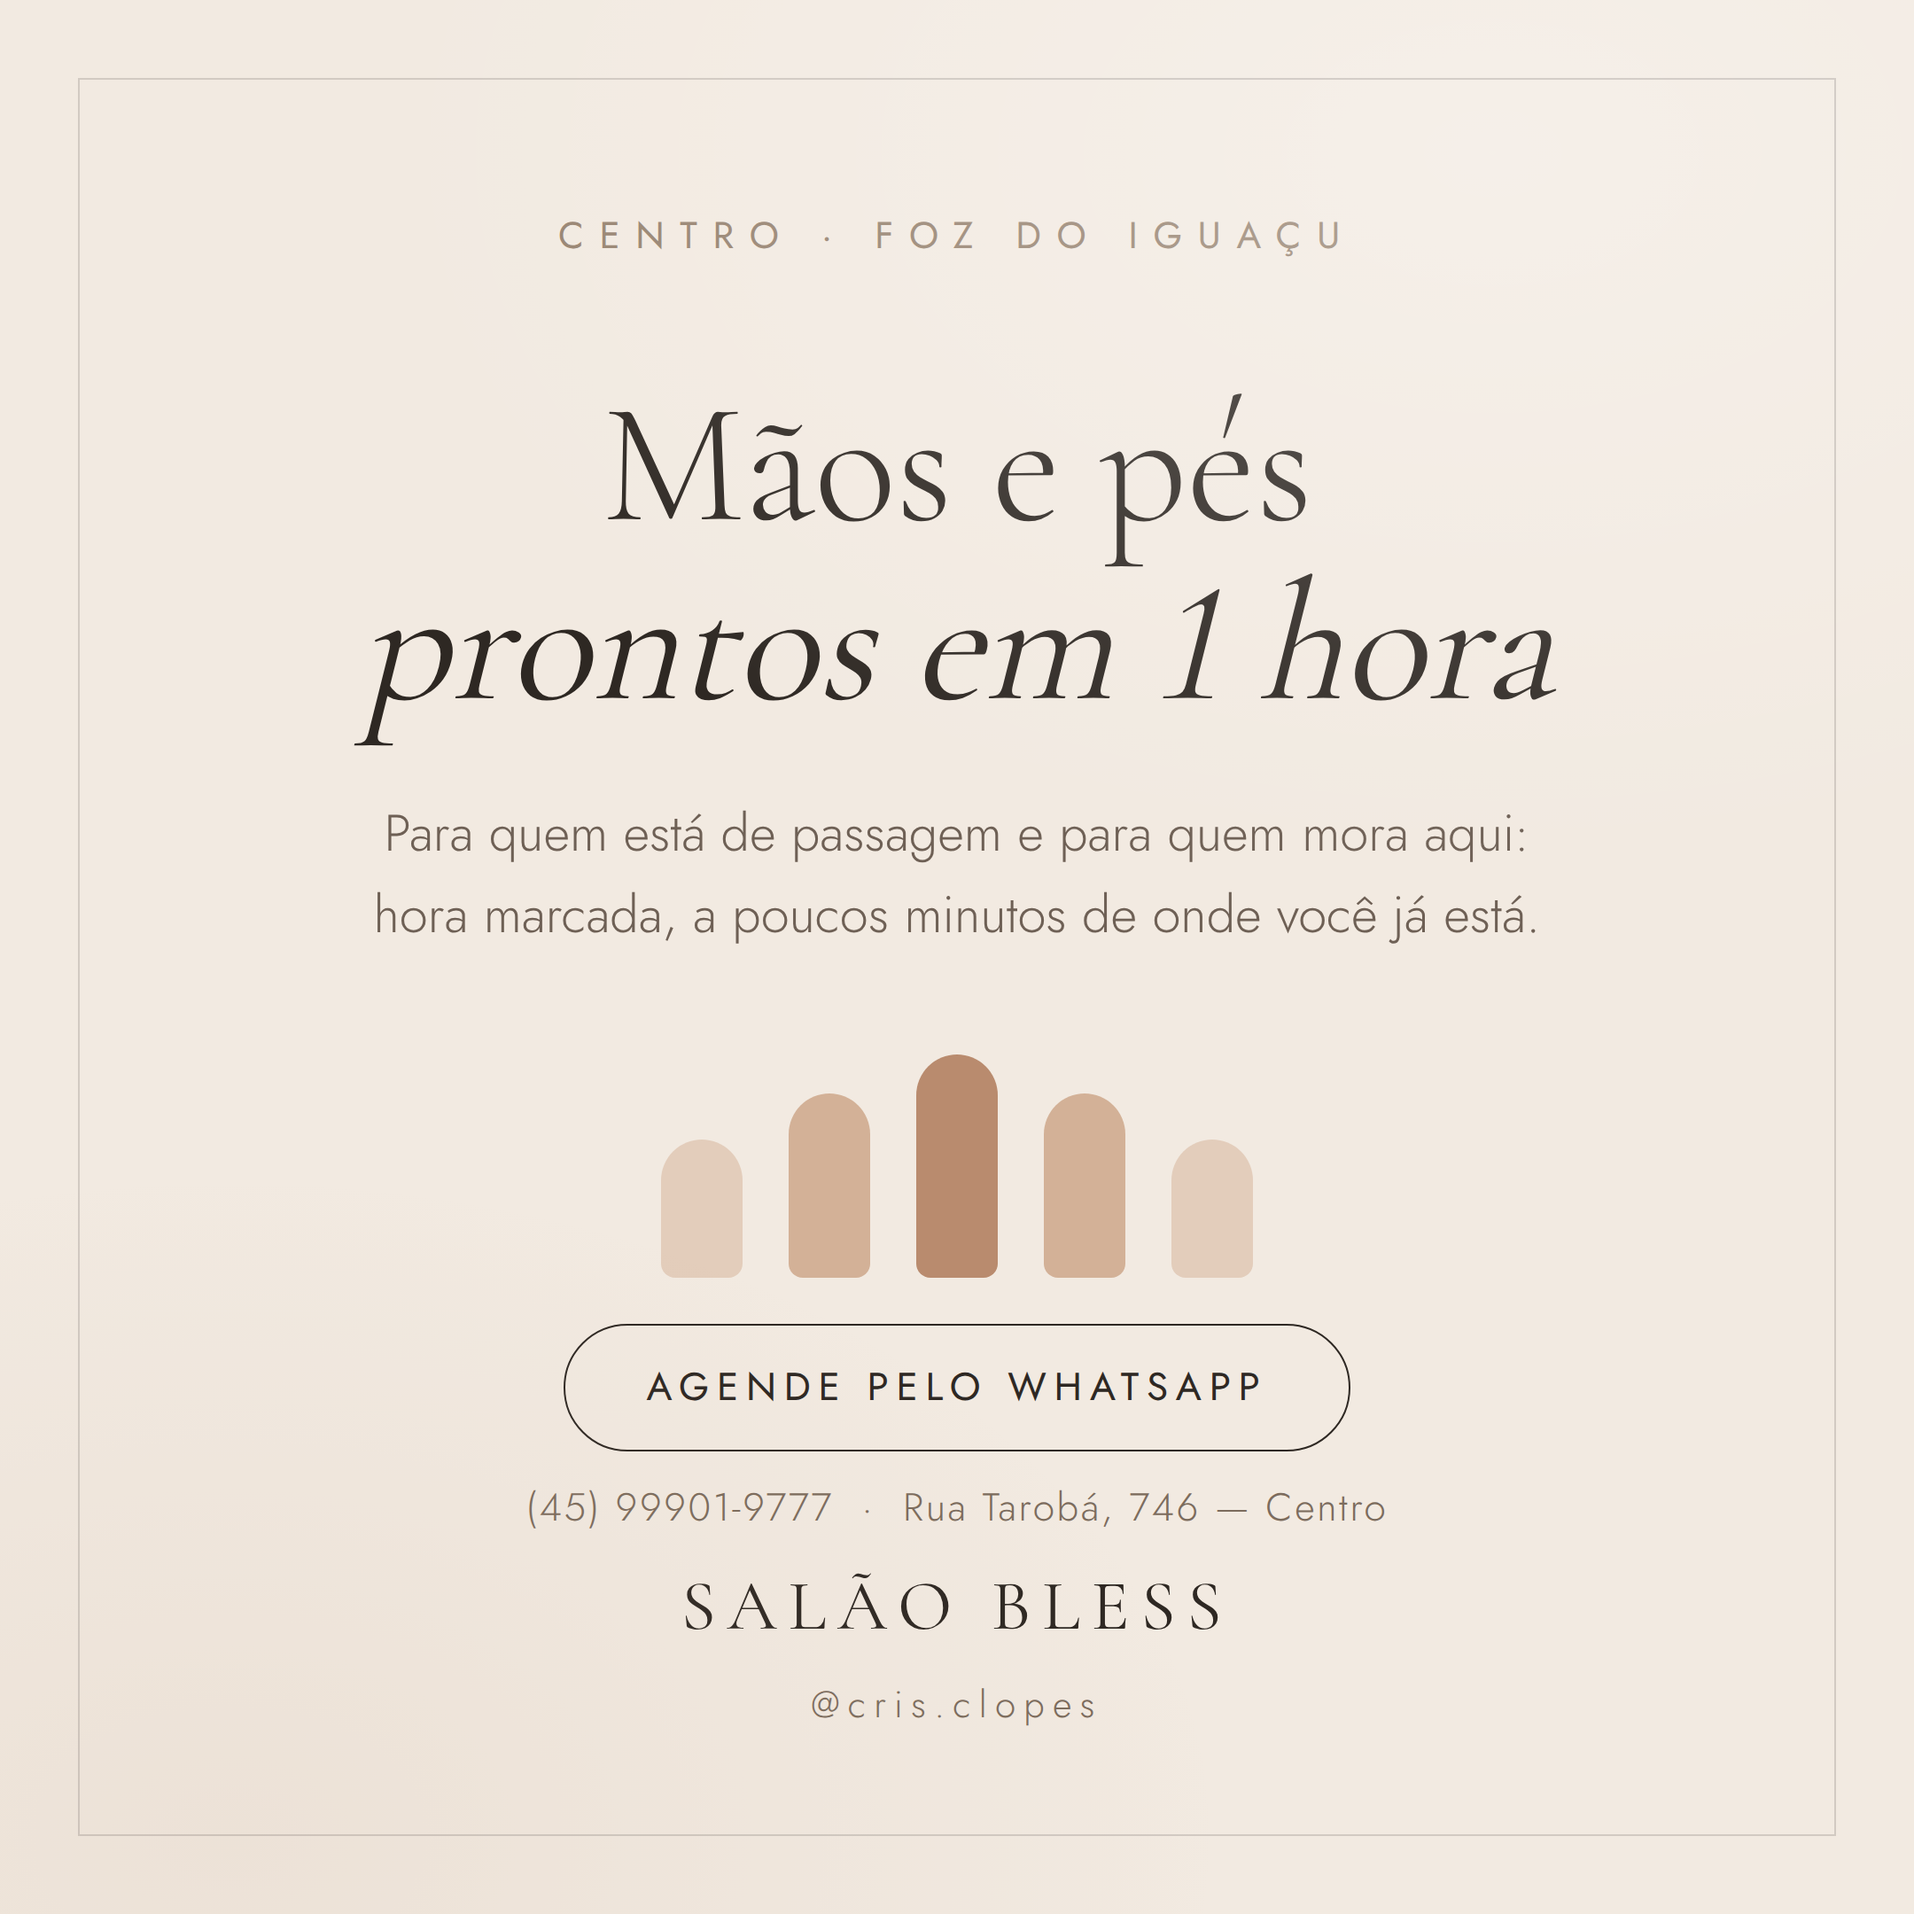
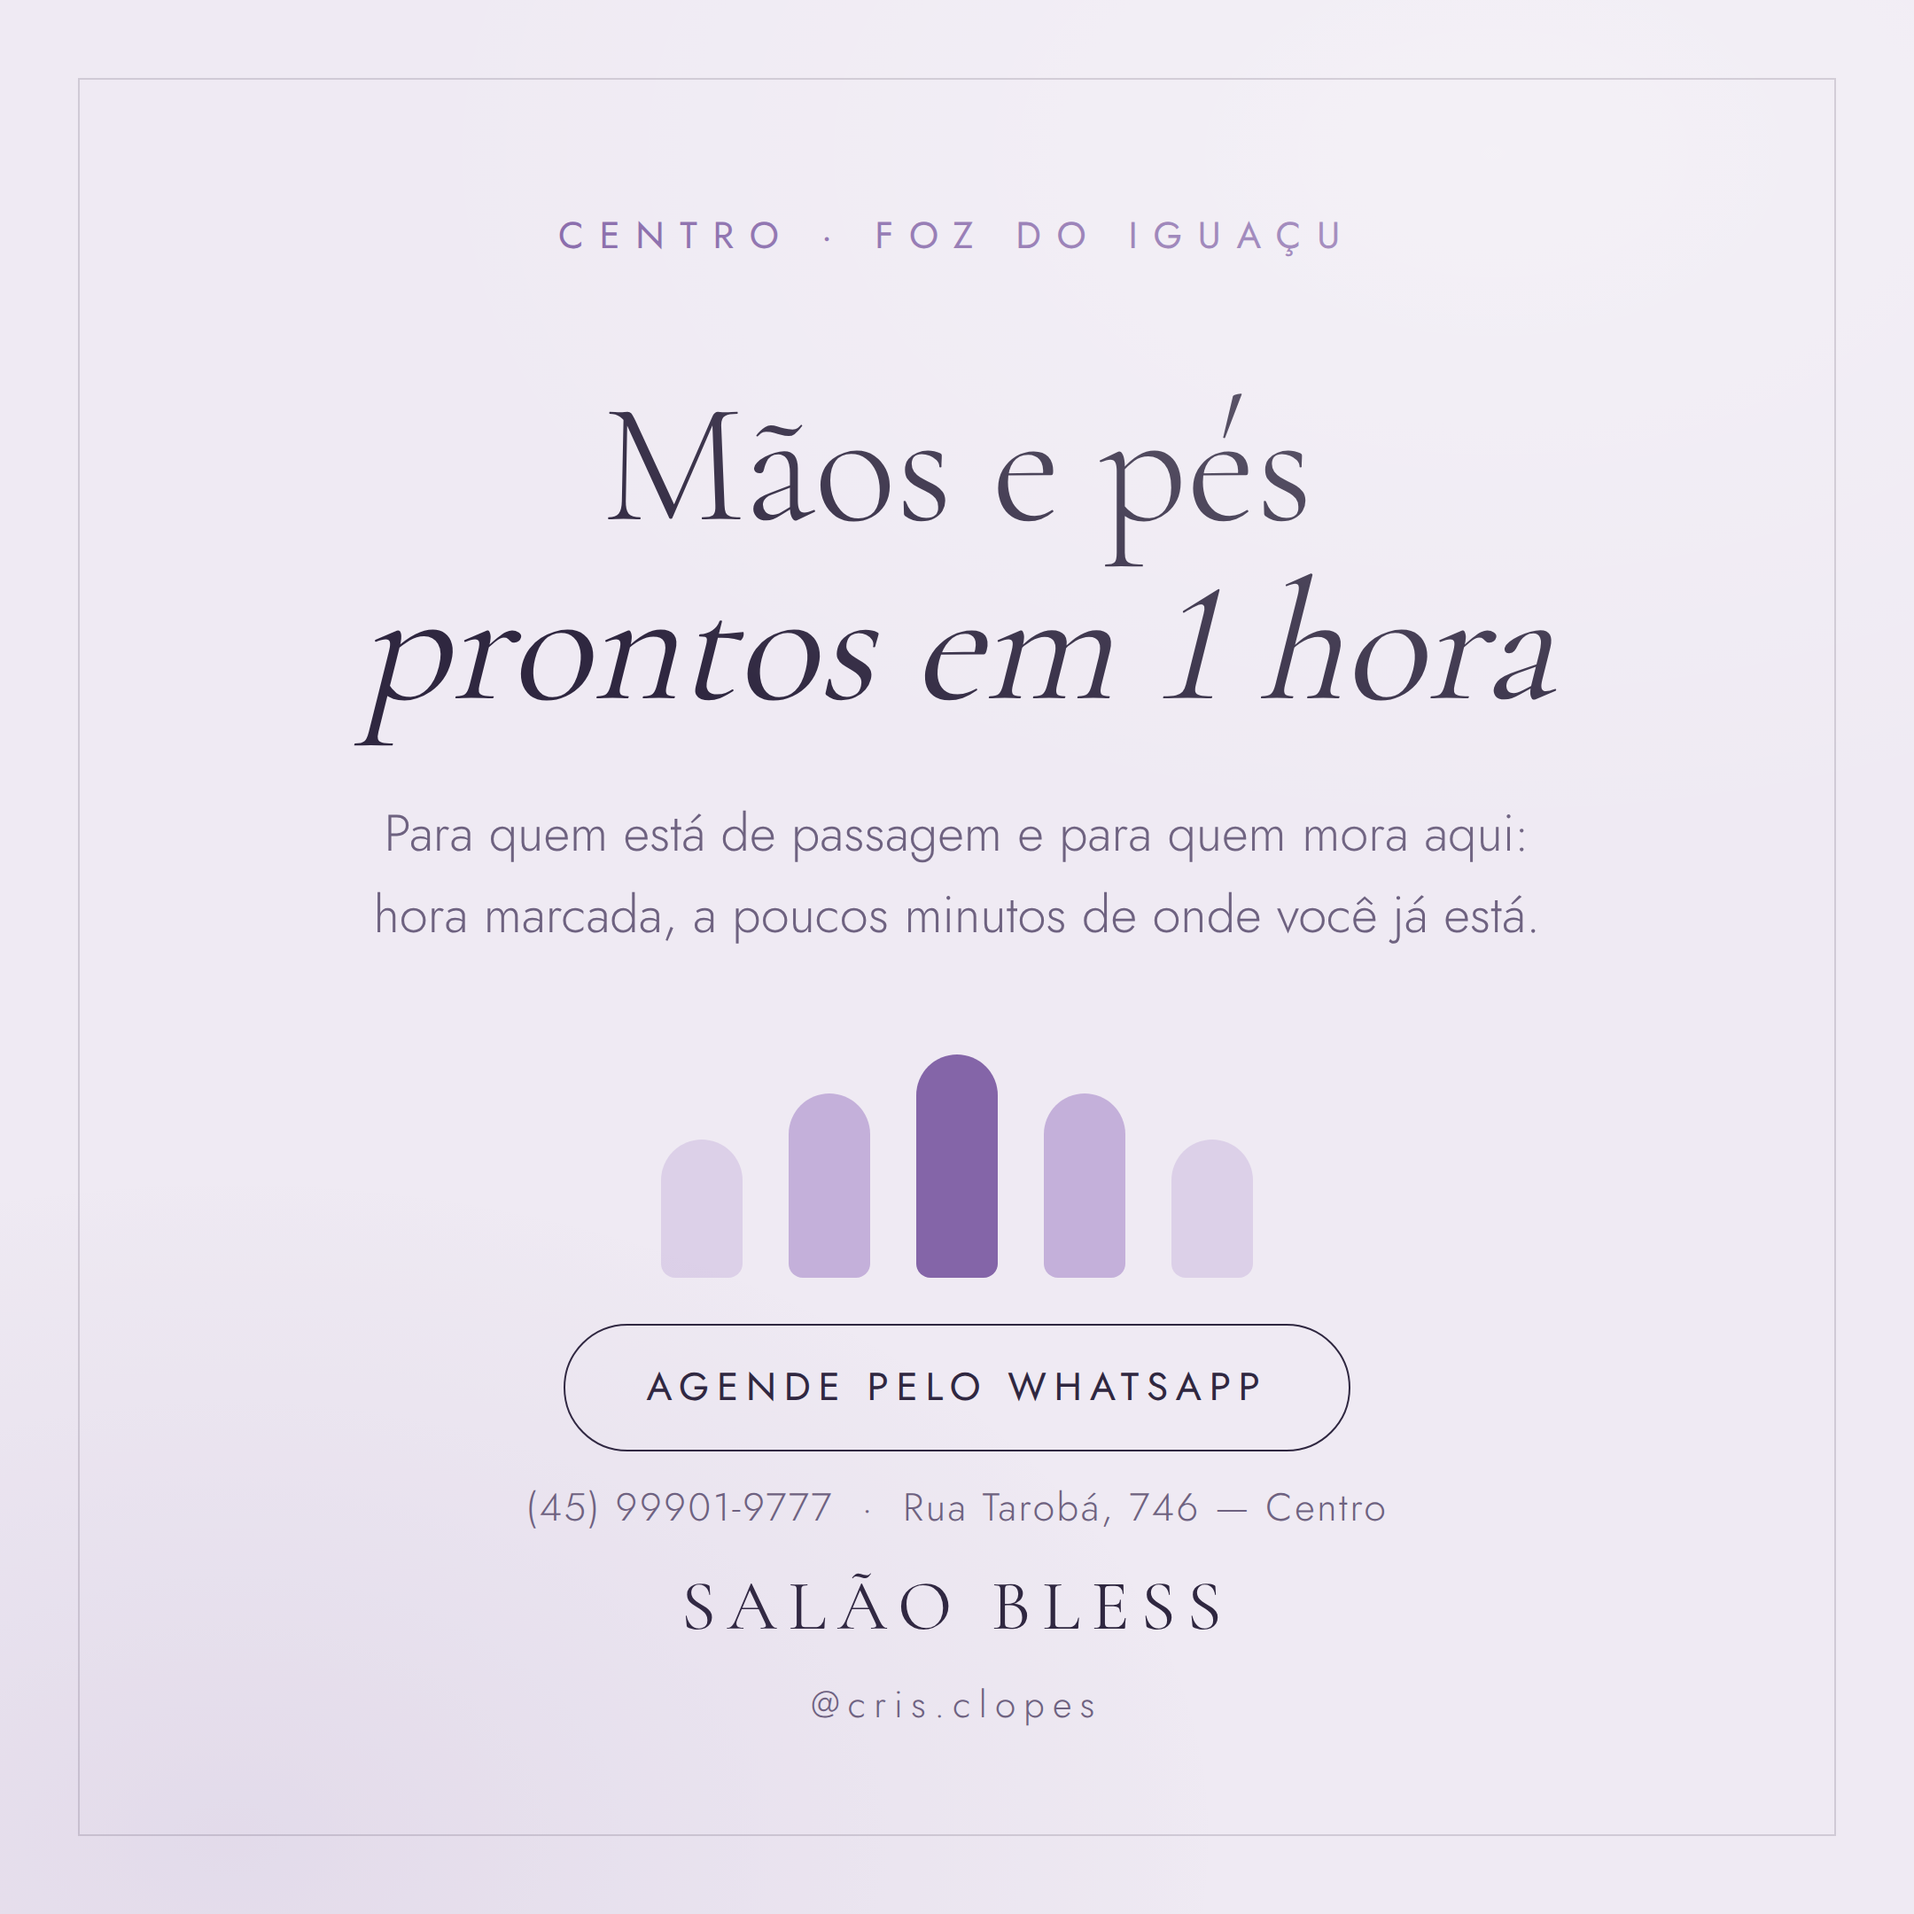
Troca a paleta nude por lilas e roxo meio-tom
Define a paleta em variaveis CSS nos dois templates: fundo lilas claro, texto
em roxo profundo e destaque em roxo meio-tom. Na arte com foto, aplica um veu
roxo em soft-light para a imagem entrar na paleta sem perder o brilho do
esmalte. Documenta os hex no README.

Claude-Session: https://claude.ai/code/session_01WqLqpTjJMR25kuJwGS17re

diff --git a/instagram/README.md b/instagram/README.md
@@ -25,3 +25,17 @@ python3 instagram/build/render.py
 ```
 
 O script usa o Chromium já instalado no ambiente e exporta em 2× (2160×2160).
+
+## Paleta
+
+| Uso | Hex |
+|---|---|
+| Fundo (lilás claro) | `#EFEAF3` |
+| Texto principal (roxo profundo) | `#2F2740` |
+| Texto secundário | `#6E6280` / `#655A78` |
+| Roxo meio-tom (destaque) | `#8465A8` |
+| Lilás médio | `#C4B0DA` |
+| Lilás claro | `#DCD0E8` |
+
+Na arte com foto, um véu `#8465A8` em `soft-light` a 34% puxa a imagem para dentro
+da paleta sem apagar o brilho do esmalte.
